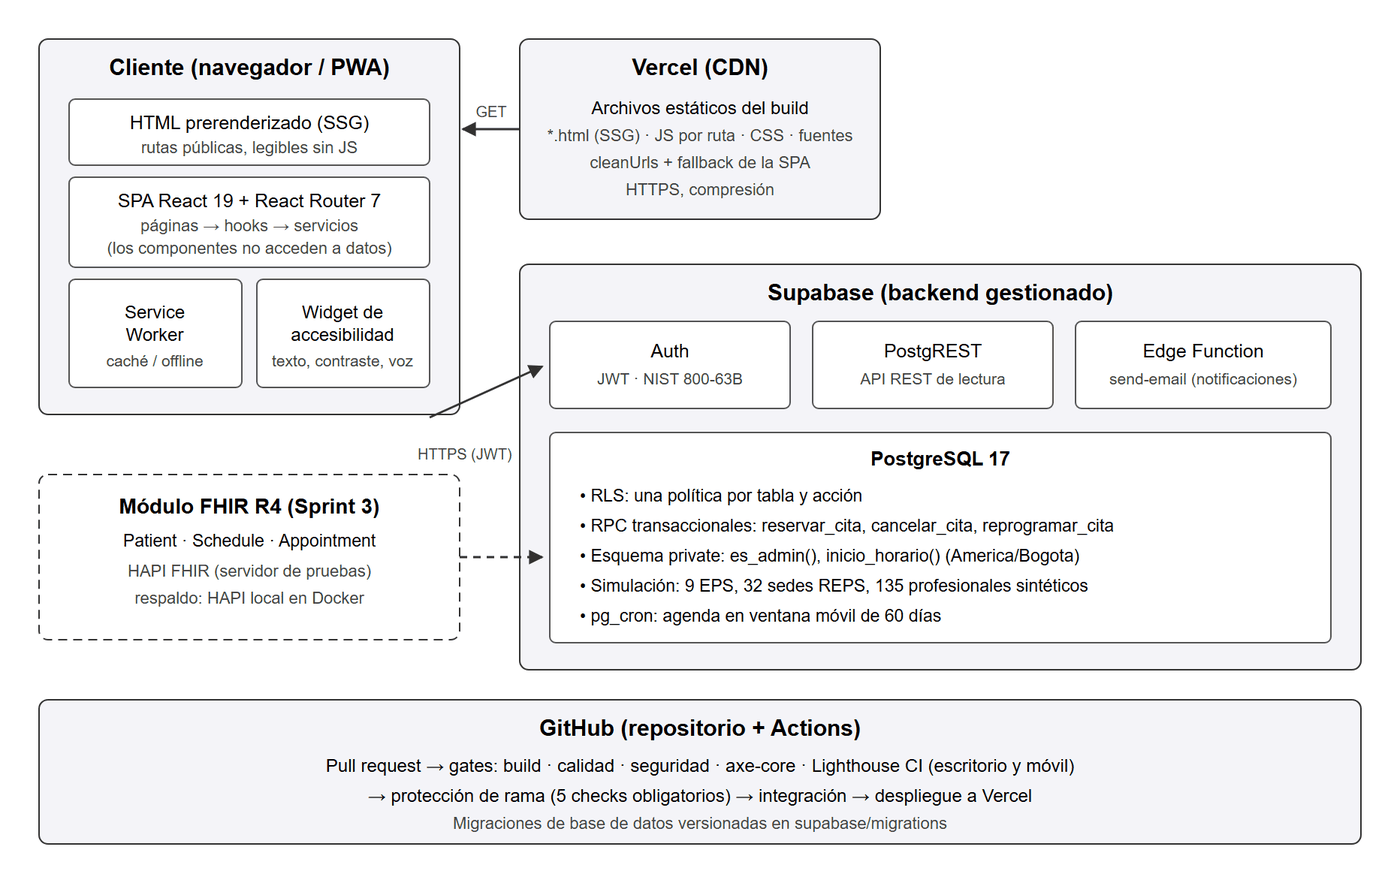
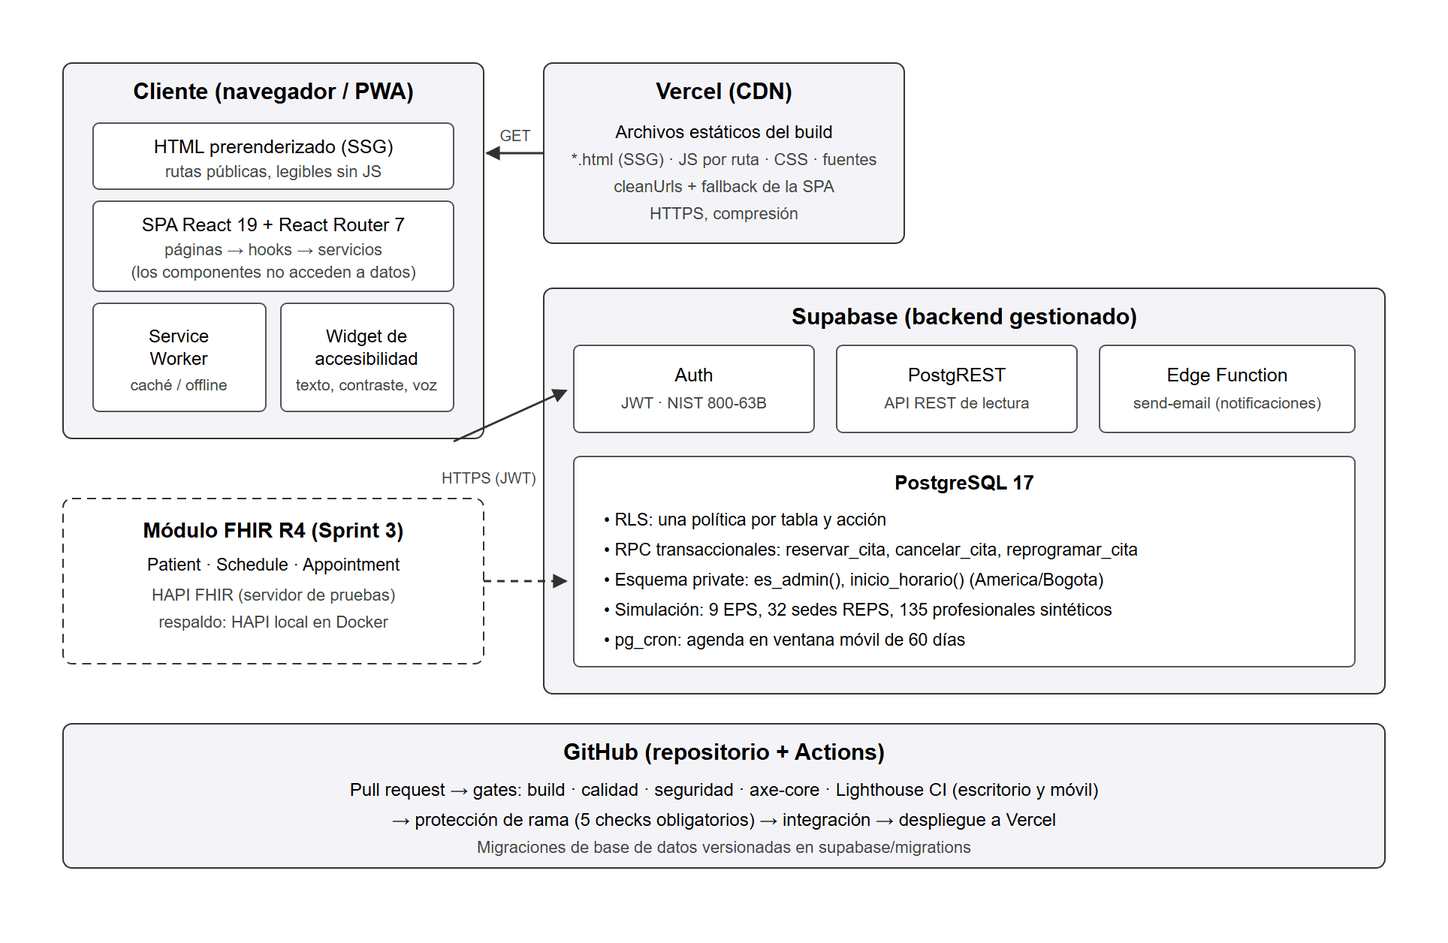
docs(readme): badges SVG propios (sin depender de shields.io), diagramas con esquinas redondeadas y encabezado sin bandera

diff --git a/README.md b/README.md
@@ -5,11 +5,11 @@
 </p>
 
 <p align="center">
-  <a href="https://citasya-seven.vercel.app"><img src="https://img.shields.io/badge/demo-en_vivo-2dd4bf?style=for-the-badge&logo=vercel&logoColor=white" alt="Demo en vivo"></a>
-  <a href="https://www.w3.org/TR/WCAG21/"><img src="https://img.shields.io/badge/WCAG_2.1-AA-1a1852?style=for-the-badge" alt="WCAG 2.1 AA"></a>
-  <a href="#-resultados"><img src="https://img.shields.io/badge/Lighthouse_a11y-100-2dd4bf?style=for-the-badge&logo=lighthouse&logoColor=white" alt="Lighthouse accesibilidad 100"></a>
-  <a href="tsconfig.app.json"><img src="https://img.shields.io/badge/TypeScript-strict-3178c6?style=for-the-badge&logo=typescript&logoColor=white" alt="TypeScript estricto"></a>
-  <a href="#-proyecto-académico"><img src="https://img.shields.io/badge/UNIMINUTO-trabajo_de_grado-252367?style=for-the-badge" alt="Trabajo de grado UNIMINUTO"></a>
+  <a href="https://citasya-seven.vercel.app"><img src="docs/img/badges/demo.svg" alt="Demo en vivo"></a>
+  <a href="https://www.w3.org/TR/WCAG21/"><img src="docs/img/badges/wcag.svg" alt="WCAG 2.1 AA"></a>
+  <a href="#-resultados"><img src="docs/img/badges/lighthouse.svg" alt="Lighthouse accesibilidad 100"></a>
+  <a href="tsconfig.app.json"><img src="docs/img/badges/typescript.svg" alt="TypeScript estricto"></a>
+  <a href="#-proyecto-académico"><img src="docs/img/badges/uniminuto.svg" alt="Trabajo de grado UNIMINUTO"></a>
 </p>
 
 <p align="center">
@@ -128,7 +128,7 @@ Cada optimización se validó con un experimento A/B, incluido un resultado nega
 
 `main` está protegida: exige los checks obligatorios, la rama al día y conversaciones resueltas. La regla también aplica a los administradores.
 
-## 🇨🇴 Datos reales, personas sintéticas
+## 📍 Datos reales, personas sintéticas
 
 Las **entidades son reales y públicas**; las **personas son sintéticas**, para no tratar datos personales (Ley 1581 de 2012).
 
